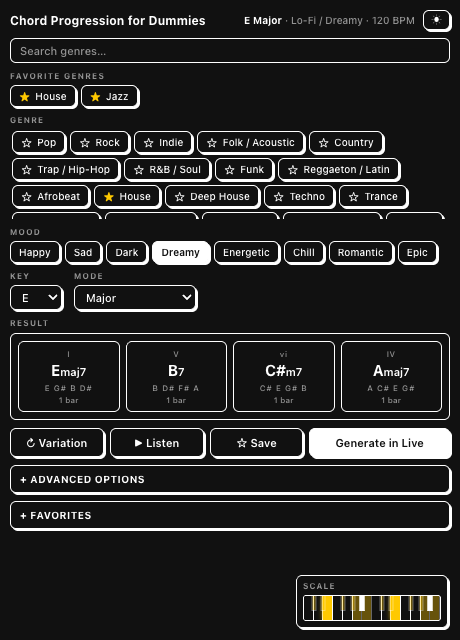
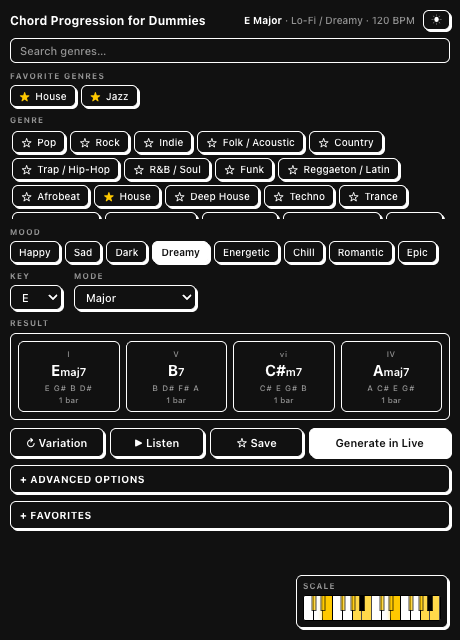
fix: piano keys stay white/black in dark mode; only scale heats yellow
Use fixed key colors (white naturals, black sharps) instead of theme
vars so the keyboard always reads as a real piano, including dark mode.
Scale notes still blink yellow; root steady + glow.

Changed region(s): [[0.6391, 0.9062, 0.9739, 0.9688]]

diff --git a/src/interface.html b/src/interface.html
@@ -93,10 +93,11 @@
     }
     .piano-cap { font-size: 8px; font-weight: 700; letter-spacing: 0.12em; text-transform: uppercase; color: var(--muted); margin-bottom: 4px; }
     #pianoNote { color: var(--ink); }
-    .piano { position: relative; display: flex; height: 26px; border: 1px solid var(--ink); border-radius: 3px; overflow: hidden; }
-    .wkey { flex: 1; border-right: 1px solid var(--ink); background: var(--paper); }
+    /* Keys are always a real piano (white/black) in both themes; only the scale heats up to yellow. */
+    .piano { position: relative; display: flex; height: 26px; border: 1px solid #000; border-radius: 3px; overflow: hidden; background: #fff; }
+    .wkey { flex: 1; border-right: 1px solid #000; background: #fff; }
     .wkey:last-child { border-right: none; }
-    .bkey { position: absolute; top: 0; width: 5px; height: 62%; transform: translateX(-50%); background: var(--ink); border: 1px solid var(--ink); border-top: none; z-index: 2; }
+    .bkey { position: absolute; top: 0; width: 5px; height: 62%; transform: translateX(-50%); background: #000; border: 1px solid #000; border-top: none; z-index: 2; }
     .wkey.lit, .bkey.lit { background: var(--star); animation: blink 1.05s ease-in-out infinite; }
     .wkey.root, .bkey.root { background: var(--star); animation: none; box-shadow: 0 0 5px var(--star); }
     .wkey:hover, .bkey:hover { outline: 2px solid var(--star); outline-offset: -2px; cursor: pointer; }
